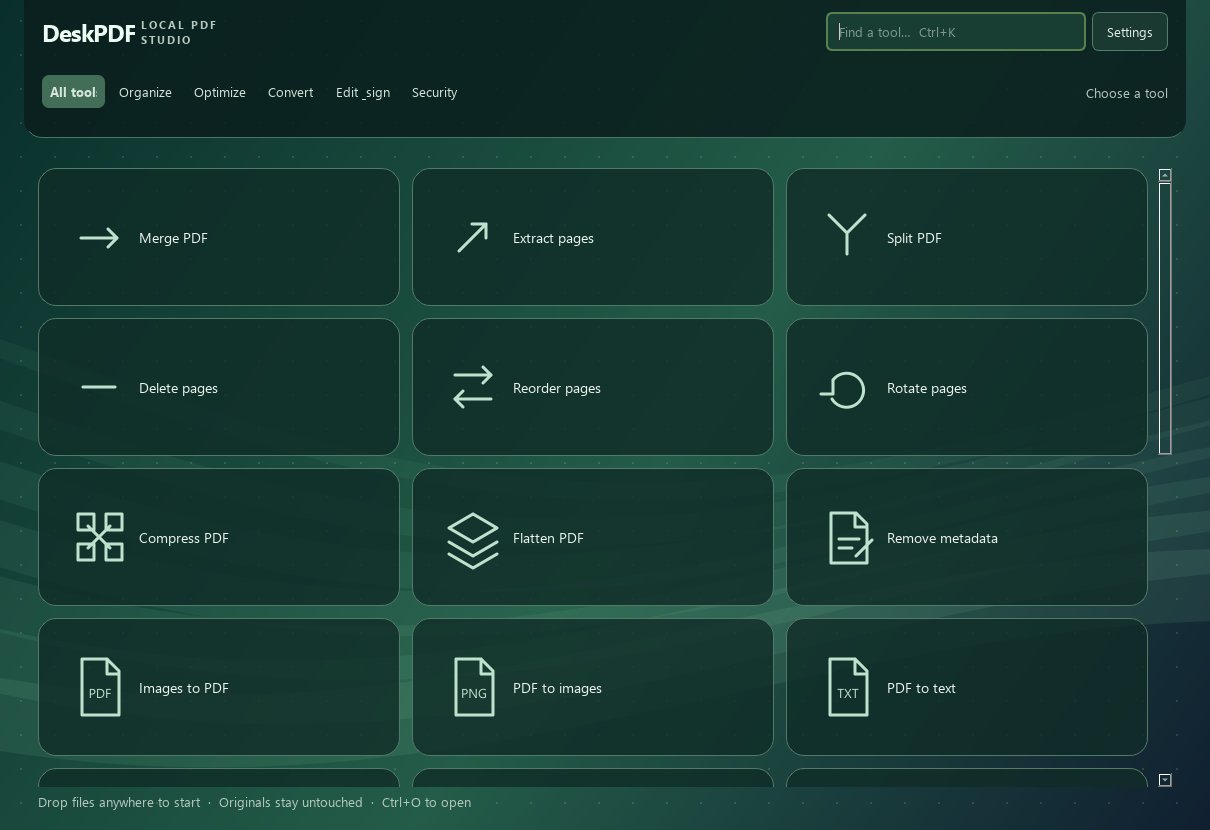
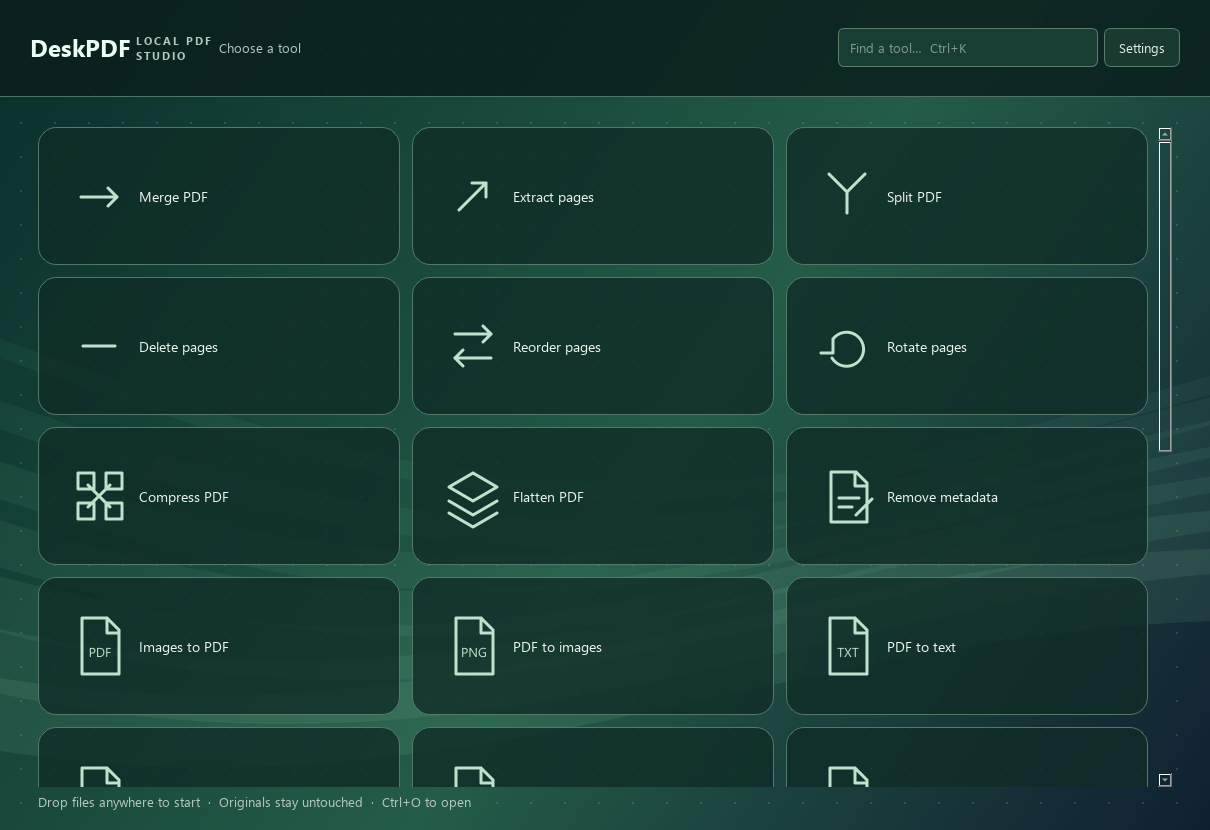
Remove category navigation and make toolbar shorter and full width

diff --git a/deskpdf/app.py b/deskpdf/app.py
@@ -125,13 +125,15 @@ class Window(QMainWindow):
         root = AmbientBackground()
         self.setCentralWidget(root)
         shell = QVBoxLayout(root)
-        shell.setContentsMargins(24, 0, 24, 12)
+        shell.setContentsMargins(0, 0, 0, 0)
         self.topbar = QFrame(objectName="topbar")
         navigation = QVBoxLayout(self.topbar)
-        navigation.setContentsMargins(18, 12, 18, 10)
+        navigation.setContentsMargins(30, 10, 30, 10)
         top = QHBoxLayout()
-        top.addWidget(label("DeskPDF", "brand"))
+        top.addWidget(button("DeskPDF", lambda: self.show_catalog(), "brand"))
         top.addWidget(label("LOCAL PDF STUDIO", "eyebrow"))
+        self.active_title = label("Choose a tool", "muted")
+        top.addWidget(self.active_title)
         top.addStretch()
         self.search = QLineEdit()
         self.search.setPlaceholderText("Find a tool…  Ctrl+K")
@@ -142,19 +144,9 @@ class Window(QMainWindow):
         settings = button("Settings", self.show_settings)
         top.addWidget(settings)
         navigation.addLayout(top)
-        categories = QHBoxLayout()
-        self.nav_buttons = {}
-        for group in ["All tools", "Organize", "Optimize", "Convert", "Edit & sign", "Security"]:
-            item = button(group, lambda checked=False, value=group: self.show_catalog(value), "nav")
-            item.setCheckable(True)
-            self.nav_buttons[group] = item
-            categories.addWidget(item)
-        categories.addStretch()
-        self.active_title = label("Choose a tool", "muted")
-        categories.addWidget(self.active_title)
-        navigation.addLayout(categories)
         shell.addWidget(self.topbar)
         self.stack = QStackedWidget()
+        self.stack.setContentsMargins(24, 0, 24, 12)
         shell.addWidget(self.stack, 1)
         self.build_catalog()
         self.build_workbench()
@@ -165,7 +157,7 @@ class Window(QMainWindow):
     def resizeEvent(self, event):
         super().resizeEvent(event)
         if hasattr(self, "topbar"):
-            self.topbar.setFixedHeight(max(120, self.height() // 6))
+            self.topbar.setFixedHeight(round(max(120, self.height() // 6) * .7))
 
     def search_tools(self):
         if hasattr(self, "cards"):
@@ -201,8 +193,7 @@ class Window(QMainWindow):
         if self.worker and self.worker.isRunning():
             return
         self.group = group
-        for name, item in self.nav_buttons.items():
-            item.setChecked(name == group)
+        self.active_title.setText("Choose a tool")
         self.stack.setCurrentIndex(0)
         self.filter_catalog()
 
@@ -527,7 +518,7 @@ class Window(QMainWindow):
             QDesktopServices.openUrl(QUrl.fromLocalFile(str(self.last_output)))
 
     def about(self):
-        QMessageBox.about(self, "About DeskPDF", "DeskPDF 0.2.0\n\nA local-first, open-source PDF workbench.\nAGPL-3.0-or-later · Built with Qt and MuPDF.\n\nNo telemetry, accounts or document uploads.\nOCR needs Tesseract; Office input needs LibreOffice.\nVisual signatures are not certificate signatures.\n\nWindows 11: Explorer commands appear under Show more options.")
+        QMessageBox.about(self, "About DeskPDF", "DeskPDF 0.2.1\n\nA local-first, open-source PDF workbench.\nAGPL-3.0-or-later · Built with Qt and MuPDF.\n\nNo telemetry, accounts or document uploads.\nOCR needs Tesseract; Office input needs LibreOffice.\nVisual signatures are not certificate signatures.\n\nWindows 11: Explorer commands appear under Show more options.")
 
     def dragEnterEvent(self, event):
         if event.mimeData().hasUrls() and not (self.worker and self.worker.isRunning()):

diff --git a/deskpdf/theme.py b/deskpdf/theme.py
@@ -35,7 +35,7 @@ STYLE += """
 * { color: #e1eee7; }
 QMainWindow { background: #123a31; }
 QWidget#catalog { background: transparent; }
-QFrame#topbar { background: rgba(9, 30, 29, 215); border-bottom: 1px solid #4c7566; border-bottom-left-radius: 18px; border-bottom-right-radius: 18px; }
+QFrame#topbar { background: rgba(9, 30, 29, 215); border-bottom: 1px solid #4c7566; border-radius: 0; }
 QLabel#brand { color: #edfff4; font-size: 24px; }
 QLabel#eyebrow, QLabel#muted { color: #b5c9bf; }
 QLabel#status { color: #c8f2d3; }
@@ -58,3 +58,5 @@ QMenu::item:selected { background: #3e7256; }
 QSlider::groove:horizontal { height: 5px; background: #50725e; border-radius: 2px; }
 QSlider::handle:horizontal { background: #d1ecd8; width: 16px; margin: -6px 0; border-radius: 8px; }
 """
+
+STYLE += "QPushButton#brand { background: transparent; border: 0; padding: 0; font-size: 24px; font-weight: 700; color: #edfff4; }"

diff --git a/tests/test_ui.py b/tests/test_ui.py
@@ -75,7 +75,10 @@ def test_top_navigation_and_motion_control():
     window = Window()
     window.show()
     app.processEvents()
-    assert abs(window.topbar.height() - window.height() / 6) < 2
+    assert window.topbar.height() == round(max(120, window.height() // 6) * .7)
+    assert window.topbar.width() == window.width()
+    assert window.topbar.x() == 0
+    assert not hasattr(window, "nav_buttons")
     background = window.centralWidget()
     phase = background.phase
     background.advance()

diff --git a/deskpdf/__init__.py b/deskpdf/__init__.py
@@ -1,1 +1,1 @@
-__version__ = "0.2.0"
+__version__ = "0.2.1"

diff --git a/README.md b/README.md
@@ -2,7 +2,7 @@
 
 **Your PDFs, at hand.** A quiet, local-first PDF workbench for Windows.
 
-Version 0.2 introduces compact top navigation, an animated green ambient background with a grey dot grid, and a gallery led by large vector tool icons. Use Settings to pause background animation. In Merge PDF, the Page size slider enlarges thumbnails from 140 to 650 pixels and re-renders pages sharply without changing your selection or order.
+Version 0.2 introduces a full-width single-row toolbar without category buttons, an animated green ambient background with a grey dot grid, and a gallery led by large vector tool icons. Use Settings to pause background animation. In Merge PDF, the Page size slider enlarges thumbnails from 140 to 650 pixels and re-renders pages sharply without changing your selection or order.
 
 ![DeskPDF tool library](docs/screenshots/library.png)
 
@@ -10,7 +10,7 @@ DeskPDF brings common PDF jobs into one native desktop app: choose a tool, add a
 
 ## Install
 
-Download the installer from [GitHub Releases](https://github.com/pommfritzer/DeskPDFtoolkit/releases), or run `DeskPDF-0.2.0-Setup.exe` from the local `releases` folder. The installer includes Python, Qt and the PDF engine; users do not install Python. Installation is per user and needs no administrator privileges.
+Download the installer from [GitHub Releases](https://github.com/pommfritzer/DeskPDFtoolkit/releases), or run `DeskPDF-0.2.1-Setup.exe` from the local `releases` folder. The installer includes Python, Qt and the PDF engine; users do not install Python. Installation is per user and needs no administrator privileges.
 
 The optional Explorer integration adds **Open in DeskPDF**, **Compress with DeskPDF**, and **Extract pages with DeskPDF** to PDF right-click menus. On Windows 11, use **Show more options**. Your default PDF reader is unchanged. Uninstall from Windows Settings to remove the app and its menu entries.
 
@@ -74,7 +74,7 @@ Install [Inno Setup 6](https://jrsoftware.org/isinfo.php), then:
 
 To upgrade the local installation and open Merge PDF, run `./scripts/install.ps1` from the project folder. It uses the project version's installer, retains installer task preferences, closes the previous app through the installer, and launches once afterward. Installation stays in `%LOCALAPPDATA%\Programs\DeskPDF`; reinstalling updates the same Windows uninstall entry. Disabling Explorer integration or the desktop shortcut during setup removes those entries.
 
-The script regenerates the icon, runs tests, collects dependency licenses, bundles a standalone application with PyInstaller, checks bundled startup, and compiles `releases/DeskPDF-0.2.0-Setup.exe`. Dependency discovery uses an isolated PATH to avoid picking up incompatible DLLs from unrelated installed software. The portable app is in `dist/DeskPDF`. The Windows GitHub Actions workflow builds and uploads the installer on pushes and pull requests. Pushing a version tag such as `v0.2.0` also publishes the installer and SHA-256 checksum to a preview release. Update the version in `pyproject.toml`, `deskpdf/__init__.py`, the About dialog, installer definition and release workflow before tagging a new version.
+The script regenerates the icon, runs tests, collects dependency licenses, bundles a standalone application with PyInstaller, checks bundled startup, and compiles `releases/DeskPDF-0.2.1-Setup.exe`. Dependency discovery uses an isolated PATH to avoid picking up incompatible DLLs from unrelated installed software. The portable app is in `dist/DeskPDF`. The Windows GitHub Actions workflow builds and uploads the installer on pushes and pull requests. Pushing a version tag such as `v0.2.1` also publishes the installer and SHA-256 checksum to a preview release. Update the version in `pyproject.toml`, `deskpdf/__init__.py`, the About dialog, installer definition and release workflow before tagging a new version.
 
 ## Architecture
 

diff --git a/docs/DESIGN.md b/docs/DESIGN.md
@@ -2,7 +2,7 @@
 
 ## 0.2 visual direction
 
-The current interface uses one top navigation band occupying one sixth of the window height. Branding, tool categories, search, the active tool name and Settings live together there. The main gallery uses large vector tool icons with short labels. The old sidebar and large promotional headline have been removed.
+The current interface uses one full-width top navigation band, 30% shorter than the original one-sixth-height band. Branding, search, the active tool name and Settings live in a single row. Category buttons have been removed. Clicking the DeskPDF brand returns to all tools. The main gallery uses large vector tool icons with short labels. The old sidebar and large promotional headline have been removed.
 
 The background is a locally drawn dark green gradient with slowly moving translucent ribbons and a fixed grey dot grid. It uses Qt painting and a bounded timer, without video assets or network resources. Painting pauses while minimized; Settings can pause animation entirely. Dark translucent surfaces and light text preserve contrast over the moving background.
 

diff --git a/docs/VALIDATION.md b/docs/VALIDATION.md
@@ -1,5 +1,9 @@
 # Initial release validation
 
+## 0.2.1 compact toolbar
+
+All 35 tests pass. The navigation test checks the 30% height reduction, full window width, zero horizontal offset, and removal of category buttons. Updated gallery and workbench renders were inspected before packaging.
+
 ## 0.2.0 interface overhaul
 
 All 35 tests pass, including preservation of selected page order across thumbnail enlargement, sharper re-rendered icons, top navigation height, and background animation control. The gallery and workbenches were rendered and inspected at normal and minimum window sizes. The build checks the packaged application's imports and workbench startup before compiling the installer.
